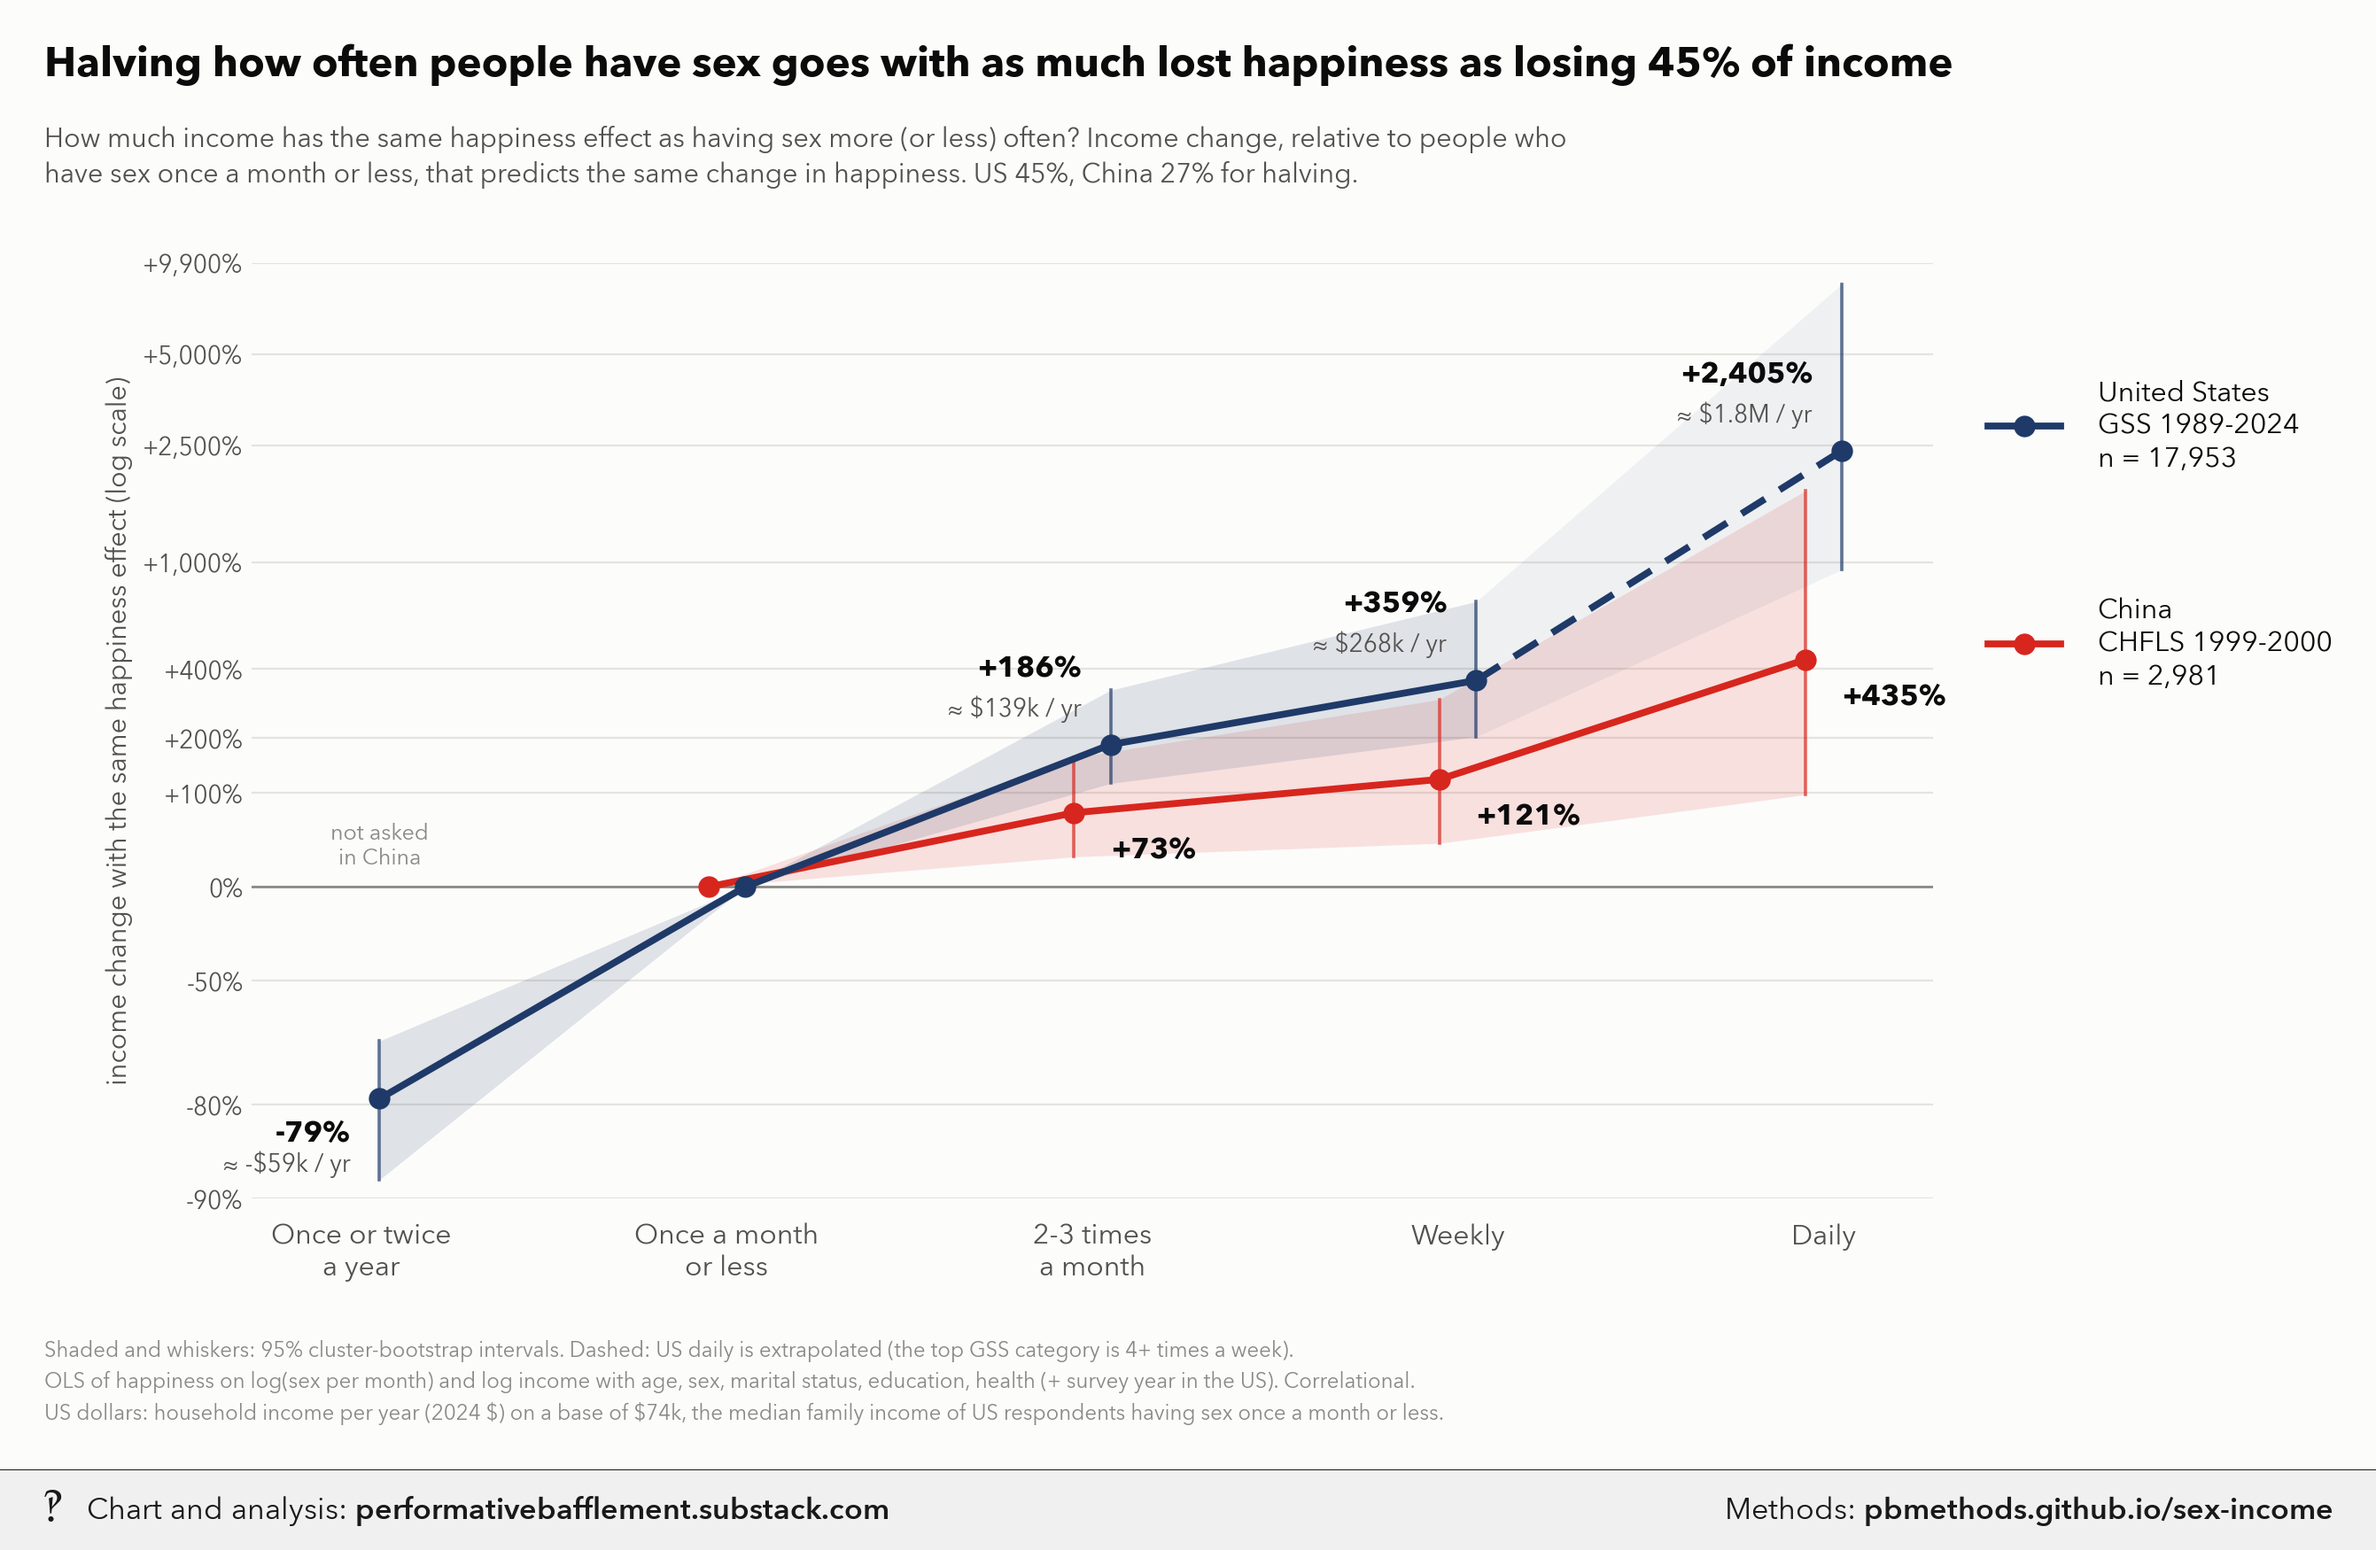
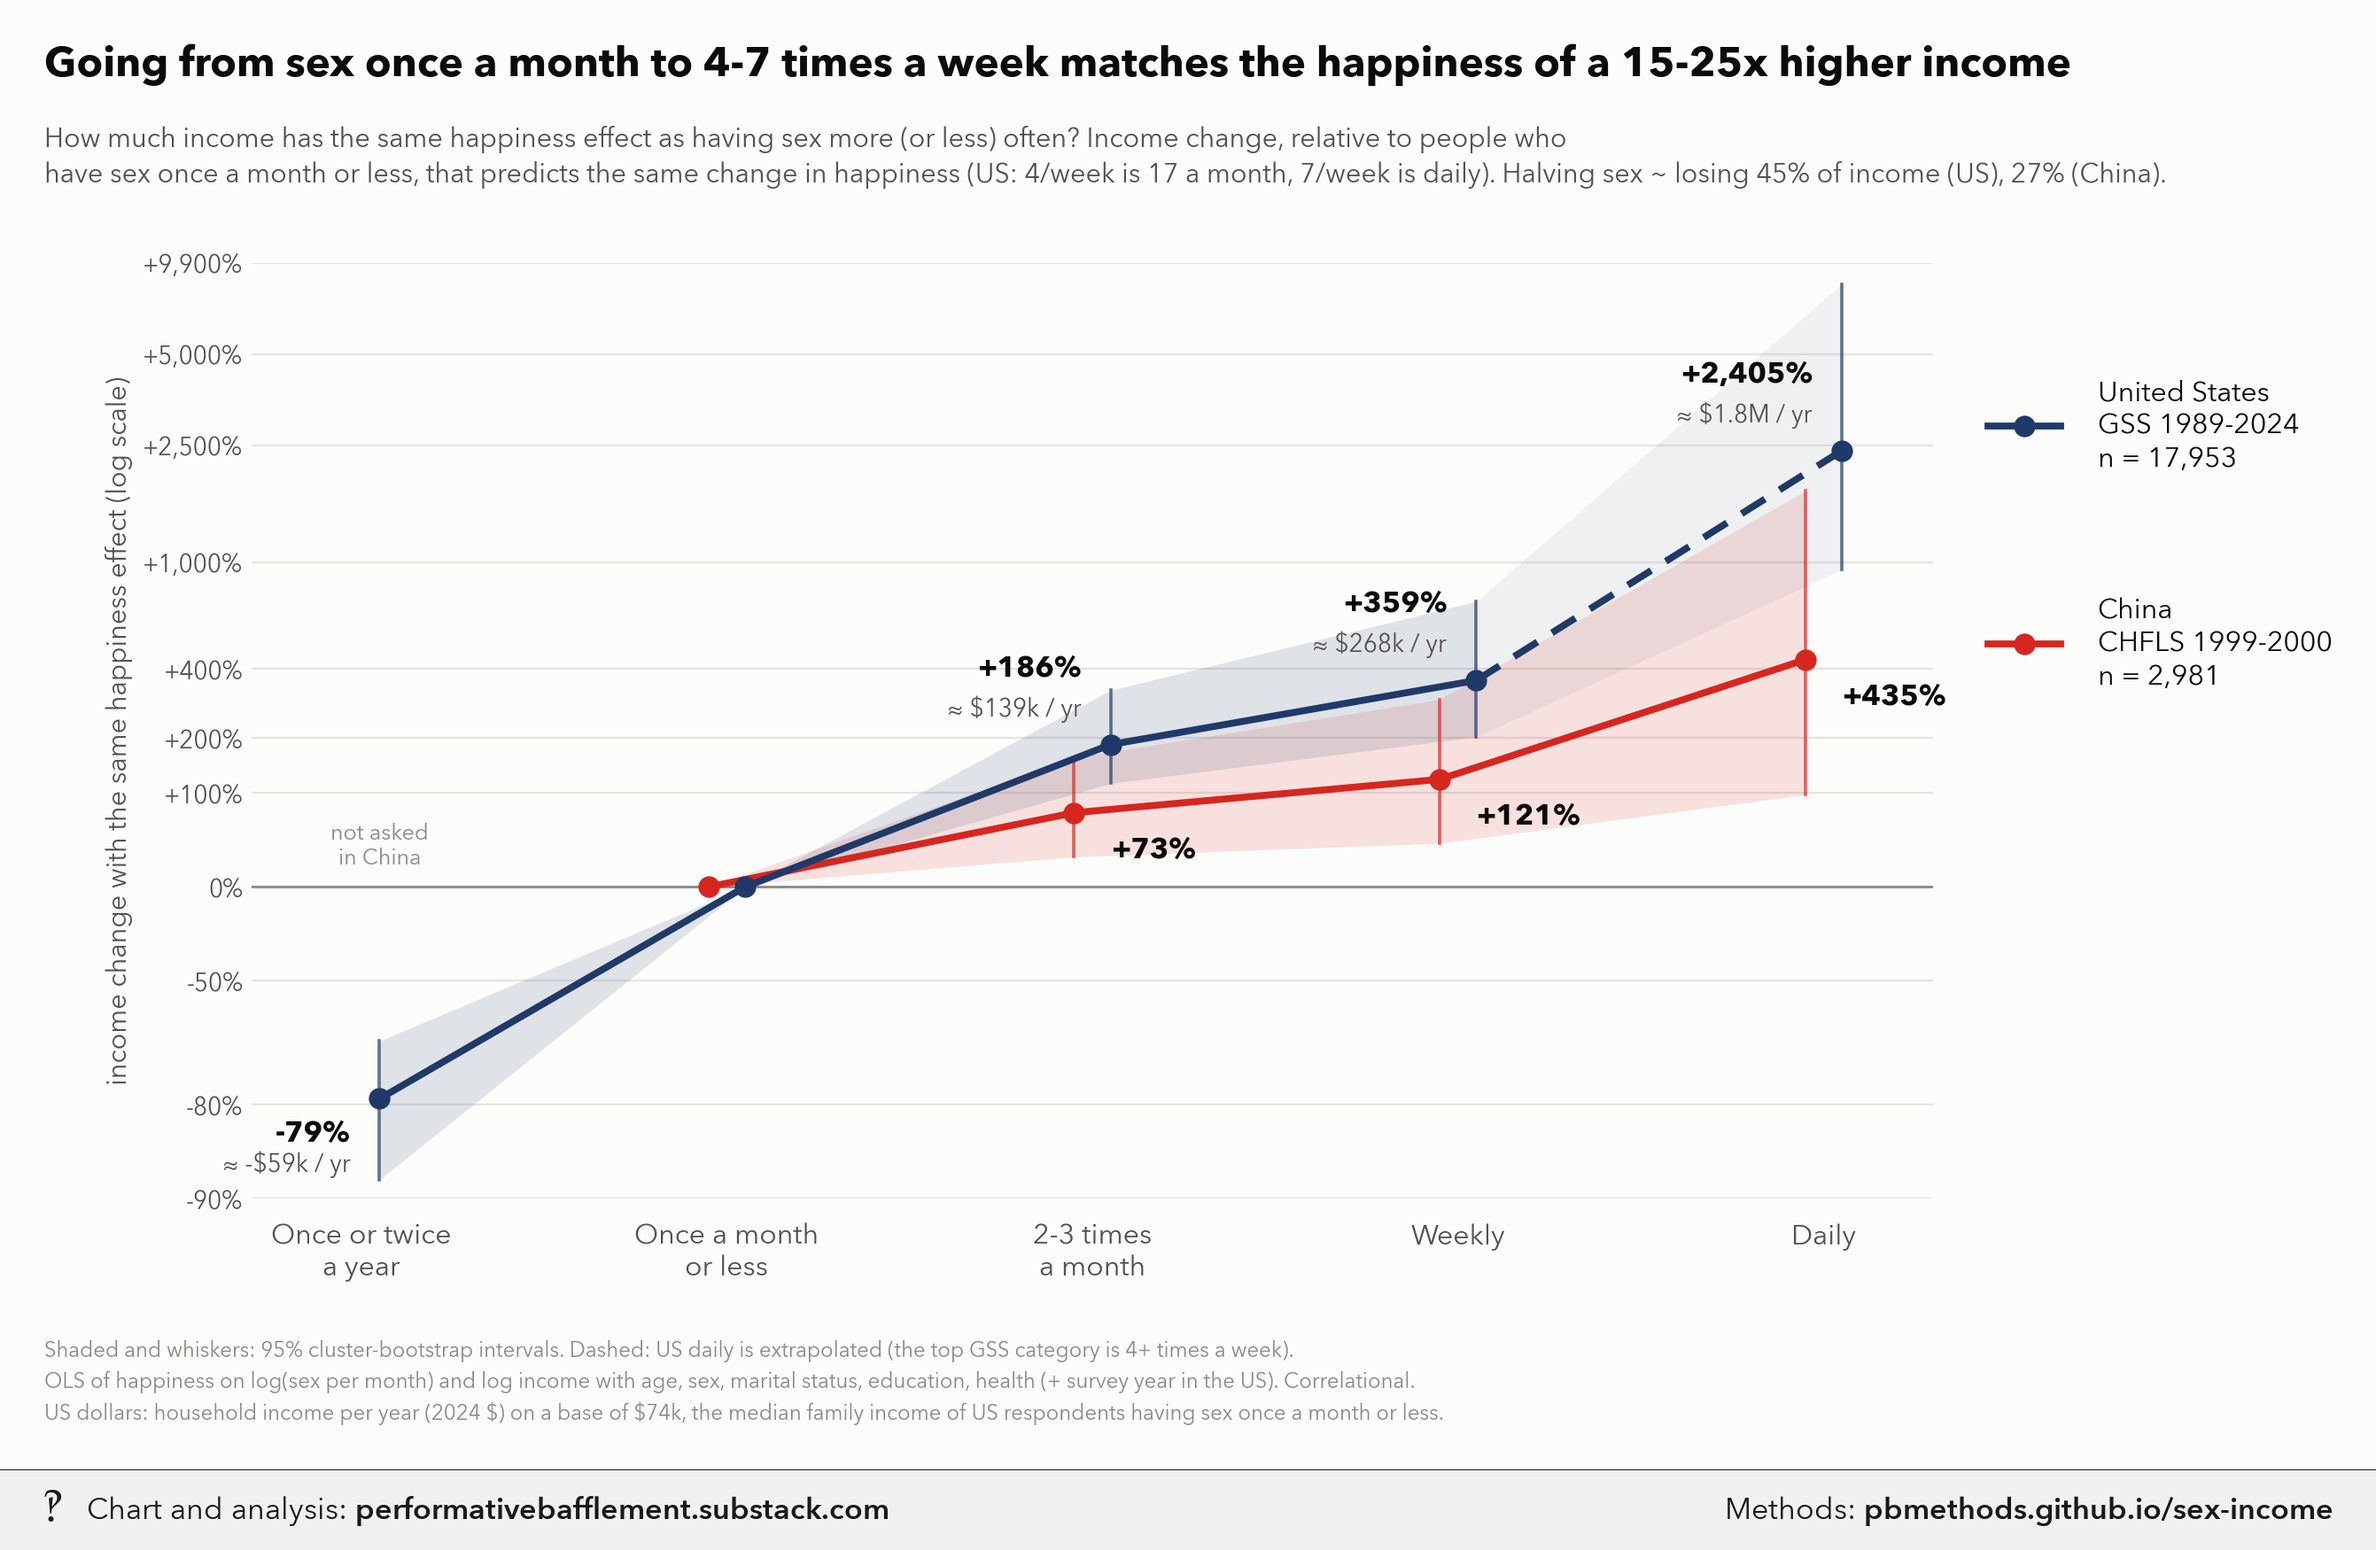
Update sex-income

diff --git a/sex-income/index.html b/sex-income/index.html
@@ -487,11 +487,15 @@ for c, y, lab in [(&quot;US&quot;, 30, &quot;United States\nGSS 1989-2024&quot;)
     ax.text(5.75, y, f&quot;{lab}\nn = {n:,}&quot;, ha=&quot;left&quot;, va=&quot;center&quot;, fontsize=11.5, color=INK, linespacing=1.3)
 
 loss = d.groupby(&quot;country&quot;).halving_income_loss_pct.first()
-fig.text(0.01, 0.955, f&quot;Halving how often people have sex goes with as much lost happiness as losing &quot;
-         f&quot;{loss['US']:.0f}% of income&quot;, fontsize=17, fontweight=&quot;bold&quot;, color=INK, ha=&quot;left&quot;, va=&quot;bottom&quot;)
+us = d[d.country.eq(&quot;US&quot;)].iloc[0]
+mult = {f: np.exp(us.b_logfreq / us.g_loginc * np.log(f / 0.75)) for f in (17, 30)}   # 4/week (GSS top), 7/week
+fig.text(0.01, 0.955, f&quot;Going from sex once a month to 4-7 times a week matches the happiness of a &quot;
+         f&quot;{mult[17]:.0f}-{mult[30]:.0f}x higher income&quot;, fontsize=17, fontweight=&quot;bold&quot;, color=INK, ha=&quot;left&quot;,
+         va=&quot;bottom&quot;)
 fig.text(0.01, 0.905, &quot;How much income has the same happiness effect as having sex more (or less) often? Income &quot;
          &quot;change, relative to people who\nhave sex once a month or less, that predicts the same change in &quot;
-         f&quot;happiness. US {loss['US']:.0f}%, China {loss['China']:.0f}% for halving.&quot;,
+         f&quot;happiness (US: 4/week is 17 a month, 7/week is daily). Halving sex ~ losing {loss['US']:.0f}% of income &quot;
+         f&quot;(US), {loss['China']:.0f}% (China).&quot;,
          fontsize=11, color=INK2, ha=&quot;left&quot;, va=&quot;center&quot;, linespacing=1.4)
 fig.text(0.01, 0.07,
          &quot;Shaded and whiskers: 95% cluster-bootstrap intervals. Dashed: US daily is extrapolated (the top GSS &quot;

diff --git a/sex-income/methods.md b/sex-income/methods.md
@@ -363,11 +363,15 @@ for c, y, lab in [("US", 30, "United States\nGSS 1989-2024"), ("China", 6, "Chin
     ax.text(5.75, y, f"{lab}\nn = {n:,}", ha="left", va="center", fontsize=11.5, color=INK, linespacing=1.3)
 
 loss = d.groupby("country").halving_income_loss_pct.first()
-fig.text(0.01, 0.955, f"Halving how often people have sex goes with as much lost happiness as losing "
-         f"{loss['US']:.0f}% of income", fontsize=17, fontweight="bold", color=INK, ha="left", va="bottom")
+us = d[d.country.eq("US")].iloc[0]
+mult = {f: np.exp(us.b_logfreq / us.g_loginc * np.log(f / 0.75)) for f in (17, 30)}   # 4/week (GSS top), 7/week
+fig.text(0.01, 0.955, f"Going from sex once a month to 4-7 times a week matches the happiness of a "
+         f"{mult[17]:.0f}-{mult[30]:.0f}x higher income", fontsize=17, fontweight="bold", color=INK, ha="left",
+         va="bottom")
 fig.text(0.01, 0.905, "How much income has the same happiness effect as having sex more (or less) often? Income "
          "change, relative to people who\nhave sex once a month or less, that predicts the same change in "
-         f"happiness. US {loss['US']:.0f}%, China {loss['China']:.0f}% for halving.",
+         f"happiness (US: 4/week is 17 a month, 7/week is daily). Halving sex ~ losing {loss['US']:.0f}% of income "
+         f"(US), {loss['China']:.0f}% (China).",
          fontsize=11, color=INK2, ha="left", va="center", linespacing=1.4)
 fig.text(0.01, 0.07,
          "Shaded and whiskers: 95% cluster-bootstrap intervals. Dashed: US daily is extrapolated (the top GSS "
